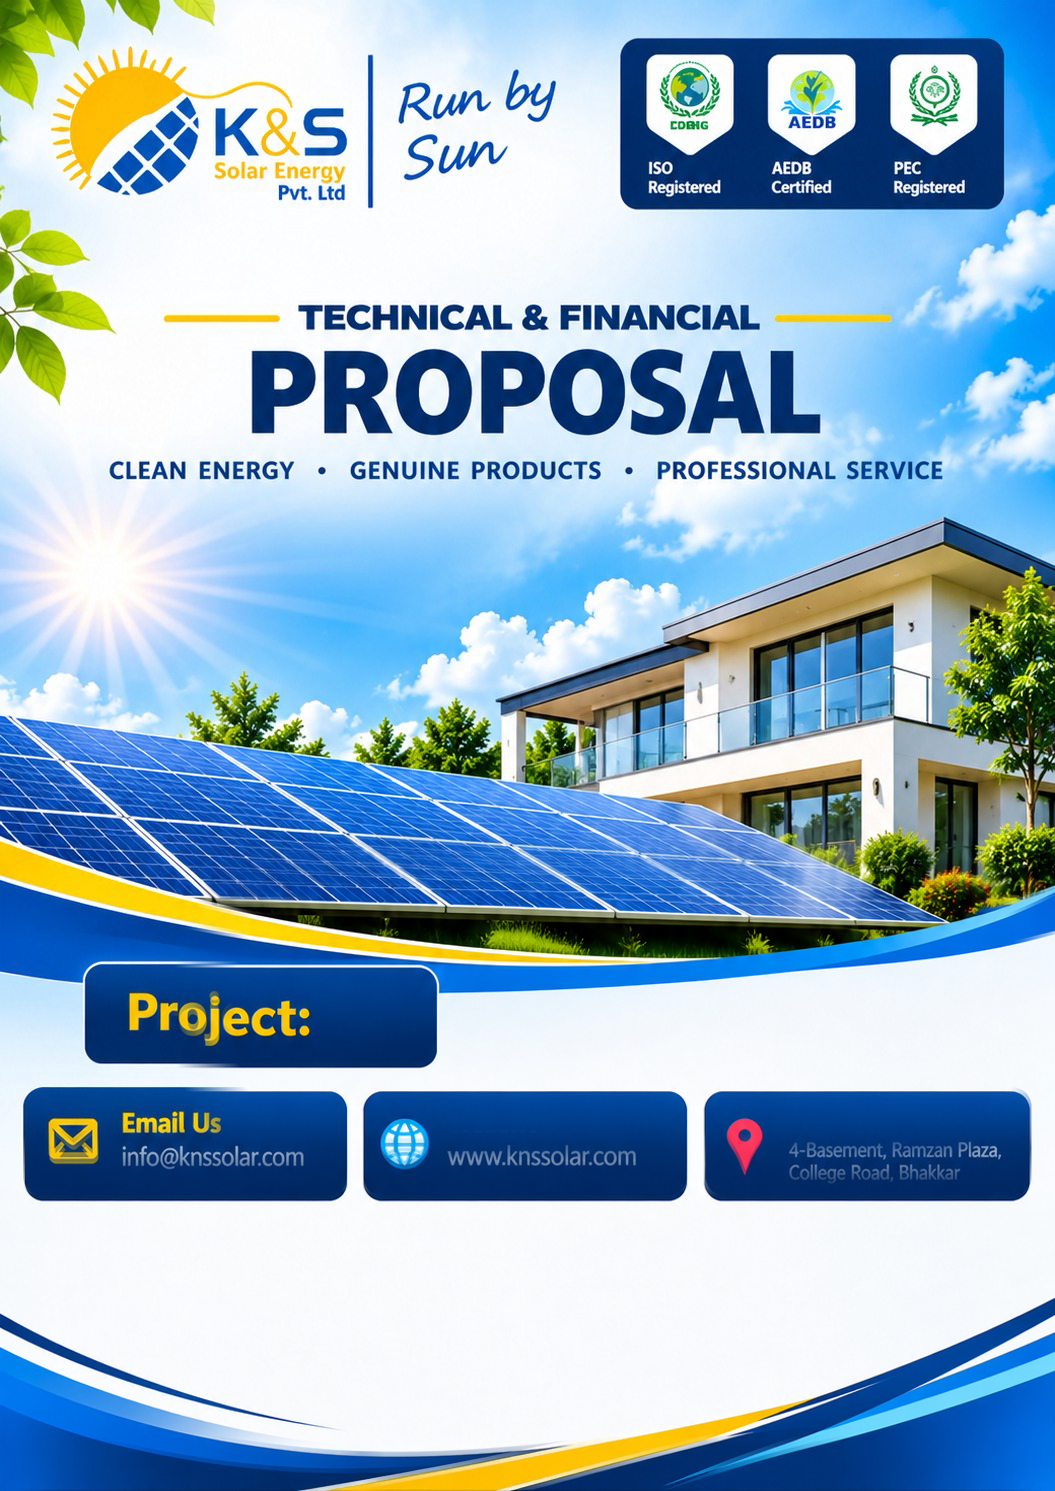
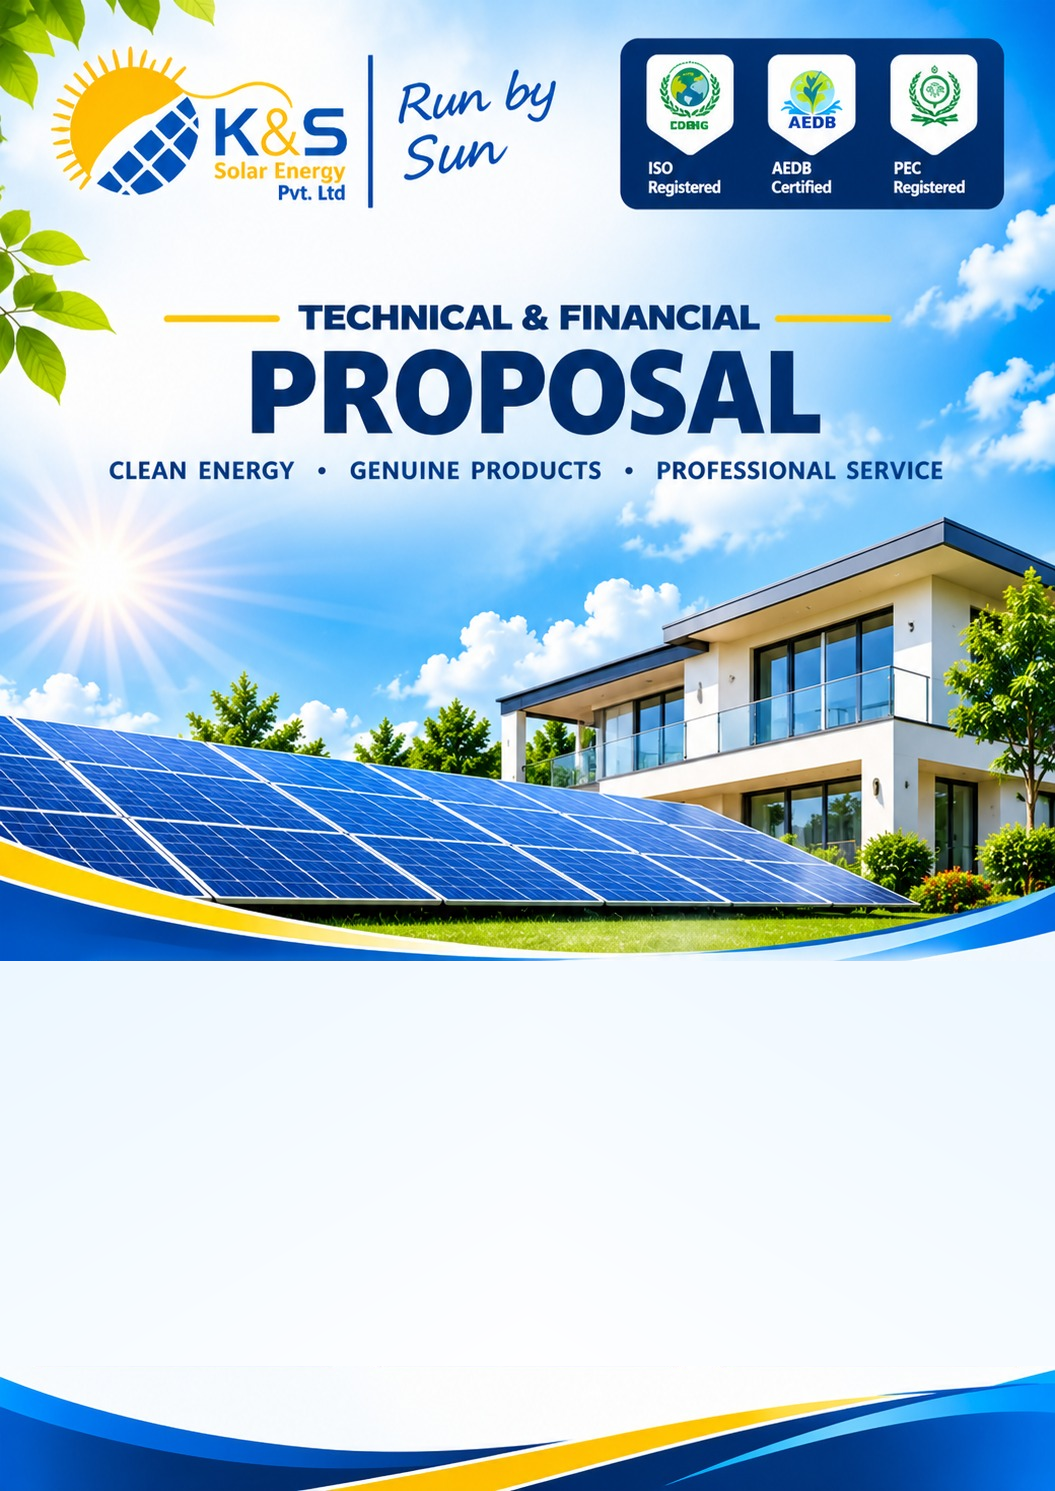
Changes

diff --git a/src/lib/proposalPrint.ts b/src/lib/proposalPrint.ts
@@ -1,4 +1,5 @@
 import type { Proposal } from "@/pages/Proposals";
+import proposalCoverTemplate from "@/assets/proposal-cover-template.png";
 import { quotationPricing } from "@/lib/proposalOptions";
 import { printableProductFacts } from "@/lib/productSpecs";
 import { CATEGORY_LABEL, DEFAULT_TARIFF, computeSavings, resolveCategory, type TariffRecord } from "@/lib/electricityTariff";
@@ -126,7 +127,7 @@ export function proposalHtml(
 
   const html = `<!DOCTYPE html><html><head><meta charset="utf-8"><title>Proposal ${esc(p.proposalNo)}</title>
 <style>
-  :root{--blue:#0868A0;--gold:#F8B830;--navy:#0B3A5B;--ink:#1E2B36;--muted:#5F6F7C;--line:#D7E0E7;--soft:#EAF3F9}
+  :root{--blue:#0868A0;--gold:#F8B830;--navy:#0B3A5B;--ink:#1E2B36;--muted:#5F6F7C;--line:#D7E0E7;--soft:#EAF3F9;--cover-top:#075cb2;--cover-bottom:#052959;--cover-white:#fff;--cover-yellow:#ffcf00;--cover-pin:#ff2860;--cover-globe:#00b9ee;--cover-outline:#bfeaff;--cover-card:linear-gradient(155deg,var(--cover-top),var(--cover-bottom) 85%)}
   *{box-sizing:border-box;margin:0}
   body{font-family:"Segoe UI",Calibri,system-ui,Arial,sans-serif;color:var(--ink);line-height:1.45;font-size:12.5px}
   .page{width:190mm;max-width:100%;margin:0 auto;padding:6mm 0;display:flow-root;overflow-wrap:anywhere}
@@ -180,7 +181,24 @@ export function proposalHtml(
   .proj.fp b,.proj.fp span,.proj.fp p{padding:0 4mm}.proj.fp p.size{color:var(--blue);font-weight:800;font-size:13px}.proj.fp i{top:auto;bottom:3mm;background:#fff}
   .quote{background:var(--soft);border-left:4px solid var(--gold);padding:4mm 5mm;margin-top:4mm;font-style:italic;color:var(--navy)}
   ol.steps{margin:2mm 0 0 5mm}ol.steps li{margin-bottom:1.5mm}
-  .cover3d{position:relative;height:270mm;border-radius:8px;overflow:hidden;color:#fff;font-family:Arial,Helvetica,sans-serif;font-style:normal}
+  .cover3d{position:relative;height:270mm;overflow:hidden;color:var(--cover-white);font-family:"Segoe UI",Arial,Helvetica,sans-serif;font-style:normal;line-height:1.12}
+  .cover3d.reference-cover .bg{object-fit:fill}
+  .reference-cover .project-band{position:absolute;left:8%;top:64.6%;width:84%;height:6.85%;border:1px solid var(--cover-outline);border-radius:3.5mm;background:var(--cover-card);display:flex;align-items:center;justify-content:center;gap:2.5mm;padding:2mm 3mm;font-size:25px;font-weight:800;white-space:nowrap}
+  .reference-cover .project-band strong{color:var(--cover-yellow)}
+  .reference-cover .reference-contact{position:absolute;left:2.2%;right:2.2%;top:72.95%;height:7.3%;display:grid;grid-template-columns:1fr 1fr 1fr;gap:3mm}
+  .reference-cover .reference-contact a{background:var(--cover-card);color:var(--cover-white);border-radius:4.5mm;display:flex;align-items:center;gap:3mm;padding:3mm;text-decoration:none;min-width:0}
+  .reference-cover .reference-contact svg{width:9mm;height:10mm;flex:none;fill:none;stroke:var(--cover-yellow);stroke-width:2.4}
+  .reference-cover .reference-contact .globe{stroke:var(--cover-globe)}
+  .reference-cover .reference-contact .pin{fill:var(--cover-pin);stroke:none}
+  .reference-cover .reference-contact strong{display:block;color:var(--cover-yellow);font-size:14px;font-weight:800;margin-bottom:1mm}
+  .reference-cover .reference-contact span{font-size:12.5px;display:block;overflow-wrap:anywhere}
+  .reference-cover .reference-contact .address{font-size:10.5px}
+  .reference-cover .reference-details{position:absolute;left:2.2%;right:2.2%;top:82.3%;height:9.2%;display:grid;grid-template-columns:1fr 1fr 1fr;gap:3.5mm}
+  .reference-cover .reference-details div{background:var(--cover-card);border-radius:4.5mm;padding:3mm 4.5mm;min-width:0;display:flex;flex-direction:column;justify-content:center}
+  .reference-cover .reference-details small{color:var(--cover-yellow);font-size:13px;font-weight:800;display:block}
+  .reference-cover .reference-details b{display:block;font-size:19px;font-weight:800;margin:1mm 0;line-height:1.08}
+  .reference-cover .reference-details span{font-size:14px;display:block;line-height:1.15}
+  .reference-cover .reference-details .reference-date{font-size:11px}
   .cover3d .bg{position:absolute;inset:0;width:100%;height:100%;object-fit:cover}
   .cover3d .shade{position:absolute;inset:0;background:linear-gradient(180deg,rgba(255,255,255,.28) 0%,rgba(255,255,255,.06) 30%,rgba(6,25,48,0) 55%,rgba(6,25,48,.28) 100%)}
   .cover3d .ct{position:relative;padding:11mm 12mm 0}
@@ -223,36 +241,18 @@ export function proposalHtml(
 </style></head><body>
 
 <div class="page cover-page">
-  <div class="cover3d">
-    <img class="bg" src="${abs("/portfolio/cover-sunset.jpg")}" alt="">
-    <div class="shade"></div>
-    <div class="ct">
-      <div class="toprow">
-        <div class="brand">${LOGO ? `<img class="logo" src="${abs("/portfolio/ks-logo-crop.png")}" alt="K&amp;S Solar Energy">` : ""}<span class="rbs">Run by Sun</span></div>
-        <div class="badges">${[["secp","SECP Registered"],["aedb","AEDB Certified"],["pec","PEC Registered"]].map(([k,l]) => `<div class="bd"><span><img src="${abs(`/portfolio/logo-${k}.png`)}" alt="${l}"></span><small>${l}</small></div>`).join("")}</div>
-      </div>
-      <div class="tfp">TECHNICAL &amp; FINANCIAL PROPOSAL</div>
-      <div class="tag">CLEAN ENERGY • GENUINE PRODUCTS • PROFESSIONAL SERVICE</div>
-      <div class="featwrap"><div class="feat">
-        <div><em>☀</em><b>Since 2013</b><span>Trusted solar experience</span></div>
-        <div><em>🛡</em><b>Tier-1 Products</b><span>Genuine panels &amp; inverters</span></div>
-        <div><em>⚡</em><b>Net Metering</b><span>Complete approval support</span></div>
-        <div><em>🔧</em><b>After-Sales</b><span>Service &amp; maintenance</span></div>
-      </div></div>
-      <div class="projbox">
-        <div class="pj"><span>Project:</span> ${kw}kW ${typeLabel} Solar System</div>
-        <div class="cl">👤 Client: <b>${esc(p.customerName)}</b> &nbsp;&nbsp; 📅 Date: <b>${p.date ? formatDate(p.date) : "-"}</b></div>
-      </div>
-      <div class="contact">
-        <div><em>✉</em><p><small>Email Us</small>${esc(company.email || "info@knssolar.com")}</p></div>
-        <div><em>🌐</em><p><small>Website</small>www.knssolar.com</p></div>
-        <div><em>📍</em><p><small>Location</small>4-Basement, Ramzan Plaza, College Road, Bhakkar</p></div>
-      </div>
+  <div class="cover3d reference-cover">
+    <img class="bg" src="${abs(proposalCoverTemplate)}" alt="K&amp;S Solar Energy — Run by Sun — Technical &amp; Financial Proposal">
+    <div class="project-band"><strong>Project:</strong><span>${kw}kW ${typeLabel} Solar System</span></div>
+    <div class="reference-contact">
+      <a href="mailto:${esc(company.email || "info@knssolar.com")}"><svg viewBox="0 0 24 24"><rect x="2" y="4" width="20" height="16" rx="1"/><path d="m3 5 9 8 9-8M3 19l6-6m12 6-6-6"/></svg><div><strong>Email Us</strong><span>${esc(company.email || "info@knssolar.com")}</span></div></a>
+      <a href="https://www.knssolar.com"><svg class="globe" viewBox="0 0 24 24"><circle cx="12" cy="12" r="10"/><ellipse cx="12" cy="12" rx="4" ry="10"/><path d="M2 12h20M4 6h16M4 18h16"/></svg><div><strong>Website</strong><span>www.knssolar.com</span></div></a>
+      <a href="https://www.google.com/maps/search/?api=1&amp;query=Ramzan+Plaza+College+Road+Bhakkar"><svg class="pin" viewBox="0 0 24 28"><path d="M12 0C5 0 1 5 1 11c0 6 11 17 11 17s11-11 11-17C23 5 19 0 12 0zm0 15a4 4 0 1 1 0-8 4 4 0 0 1 0 8"/></svg><div><strong>Location</strong><span class="address">4-Basement, Ramzan Plaza,<br>College Road, Bhakkar</span></div></a>
     </div>
-    <div class="cbox">
+    <div class="reference-details">
       <div><small>PREPARED FOR</small><b>${esc(p.customerName)}</b><span>${esc(p.companyName || p.city)}</span></div>
       <div><small>SYSTEM</small><b>${kw} kWp ${typeLabel}</b><span>${p.netBilling ? "With Net Billing" : "Solar Solution"}</span></div>
-      <div><small>REF # DATE</small><b>${esc(p.proposalNo)}</b><span>${p.date ? formatDate(p.date) : "-"}${validUntil ? " • Valid till " + formatDate(validUntil) : ""}</span></div>
+      <div><small>REF # DATE</small><b>${esc(p.proposalNo)}</b><span class="reference-date">${p.date ? formatDate(p.date) : "-"}${validUntil ? " - Valid till " + formatDate(validUntil) : ""}</span></div>
     </div>
   </div>
 </div>

diff --git a/AGENTS.md b/AGENTS.md
@@ -6,6 +6,7 @@
 - Proposal payback uses the shared DISCO tariff (one global row, refreshed by the electricity-tariff server function at most weekly, validated before saving); bill math lives in src/lib/electricityTariff.ts. Why: rates change often and every proposal should pick them up without code edits.
 - Report 148 uses the isolated stockValuation helper for purchase average and remaining-stock FIFO average, aggregating merged product IDs and using bills only when PO history is absent; other reports retain their existing costing.
 - Proposal topics start at page boundaries with printable-height cover dimensions and separate quotation terms; tables may continue with repeated headings. Why: variable content must not create blank pages or detached signatures.
+- Proposal covers use reference-derived static artwork with live HTML project/contact/detail fields and print-time text fitting. Why: retain the supplied design without baking another customer's details into new proposals.
 - Proposal display options live in the existing proposal data JSON; duplication and printable pricing use proposalOptions helpers. Why: copies preserve options without schema changes and hidden pricing never alters saved costs.
 - Proposal item research is identity-bound JSON metadata fetched by the authenticated product-specs function through Parallel search and the shared AI provider for evidence extraction; print only evidence-backed saved facts, never category defaults. Why: changing a product must not retain another product's specifications.
 - Proposal voice conversations use the authenticated proposal-assistant function and validated field patches; only the existing Save action persists proposals. Why: spoken requirements need follow-up questions and explicit review without automatic writes.
